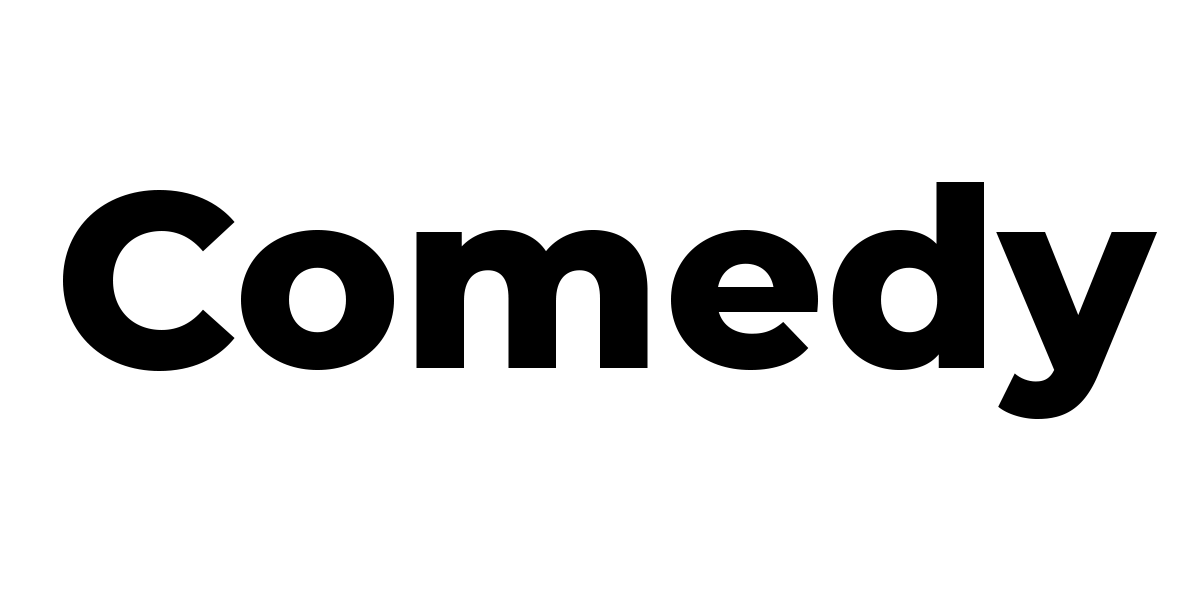
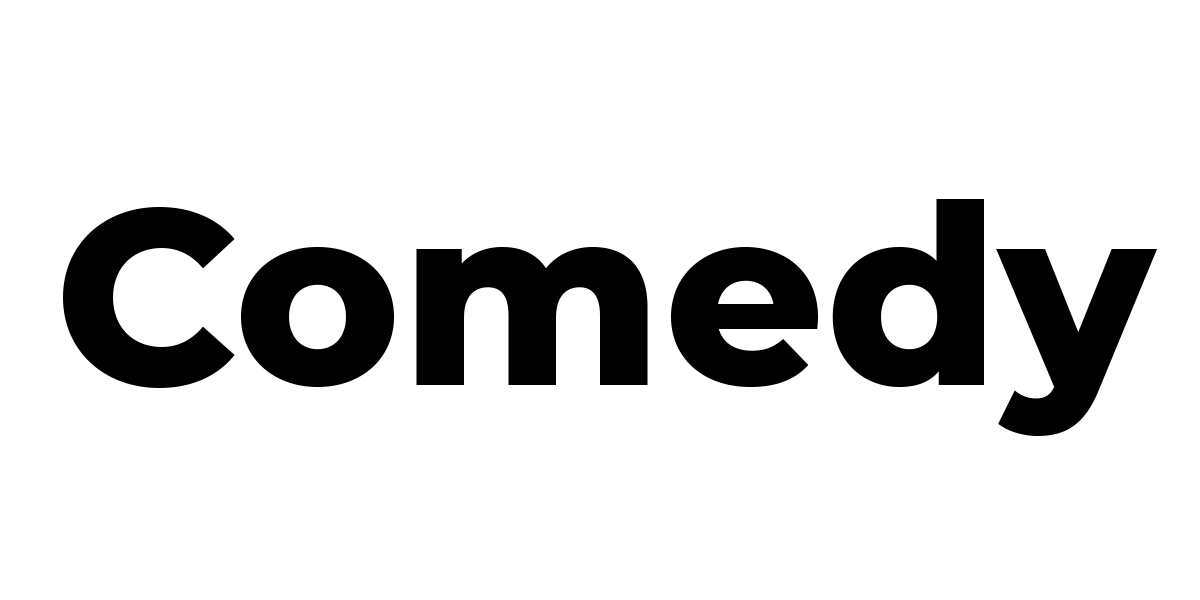
added the genre in the navigationGenre

diff --git a/client/src/components/NavigationGenre.jsx b/client/src/components/NavigationGenre.jsx
@@ -1,25 +1,54 @@
 import React, { useState, useEffect } from 'react';
-import trendingImage from './genre/trending.png';
+
 import actionImage from './genre/action.png';
+import animationImage from './genre/animation.png';
+import comedyImage from './genre/comedy.png';
+import dramaImage from './genre/drama.png';
+import familyImage from './genre/family.png';
+import horrorImage from './genre/horror.png';
+import romanceImage from './genre/romance.png';
+import trendingImage from './genre/trending.png';
 
 function NavigationGenre() {
+  const [actionMovies, setActionMovies] = useState([]);
+  const [animationMovies, setAnimationMovies] = useState([]);
+  const [comedyMovies, setComedyMovies] = useState([]);
+  const [dramaMovies, setDramaMovies] = useState([]);
+  const [familyMovies, setFamilyMovies] = useState([]);
+  const [horrorMovies, setHorrorMovies] = useState([]);
+  const [romanceMovies, setRomanceMovies] = useState([]);
   const [trendingMovies, setTrendingMovies] = useState([]);
+
   const [loading, setLoading] = useState(false);
-  const [error, setError] = useState(null); // Add state for error
+  const [error, setError] = useState(null);
 
   useEffect(() => {
-    const getTrendingMovies = async () => {
-      const moviesFromServer = await fetchData();
-      setTrendingMovies(moviesFromServer);
+    const getMovies = async () => {
+      const actionFromServer = await fetchData('/api/movies/action'); // Fetch action movies
+      setActionMovies(actionFromServer);
+      const animationFromServer = await fetchData('/api/movies/animation'); // Fetch animation movies
+      setAnimationMovies(animationFromServer);
+      const comedyFromServer = await fetchData('/api/movies/comedy'); // Fetch comedy movies
+      setComedyMovies(comedyFromServer);
+      const dramaFromServer = await fetchData('/api/movies/drama'); // Fetch drama movies
+      setDramaMovies(dramaFromServer);
+      const familyFromServer = await fetchData('/api/movies/family'); // Fetch family movies
+      setFamilyMovies(familyFromServer);
+      const horrorFromServer = await fetchData('/api/movies/horror'); // Fetch horror movies
+      setHorrorMovies(horrorFromServer);
+      const romanceFromServer = await fetchData('/api/movies/romance'); // Fetch romance movies
+      setRomanceMovies(romanceFromServer);
+      const trendingFromServer = await fetchData('/api/movies/trending'); // Fetch trending movies
+      setTrendingMovies(trendingFromServer);
     };
 
-    getTrendingMovies();
+    getMovies();
   }, []);
 
-  async function fetchData() {
+  async function fetchData(endpoint) {
     try {
       setLoading(true);
-      const response = await fetch('/api/movies/trending');
+      const response = await fetch(endpoint);
       if (!response.ok) {
         throw new Error('Network response was not ok');
       }
@@ -27,7 +56,7 @@ function NavigationGenre() {
       return data;
     } catch (error) {
       console.log(`Error Fetching Data: ${error.message}`);
-      setError(error.message); // Set error state
+      setError(error.message);
     } finally {
       setLoading(false);
     }
@@ -38,6 +67,117 @@ function NavigationGenre() {
   return (
     <div className="video-card-container">
       {error && <div>Error: {error}</div>}
+
+      {/*Action*/}
+      <button className="image-button">
+        <img src={actionImage} alt="Action" />
+        {!loading && actionMovies.length > 0 && (
+          <div
+            className="hover-poster poster"
+            style={{
+              backgroundImage: `url(${IMG_PATH + actionMovies[0].poster_path})`,
+              backgroundSize: 'cover',
+              backgroundPosition: 'center',
+            }}
+          />
+        )}
+      </button>
+
+      {/*Animation*/}
+      <button className="image-button">
+        <img src={animationImage} alt="Animation" />
+        {!loading && animationMovies.length > 0 && (
+          <div
+            className="hover-poster poster"
+            style={{
+              backgroundImage: `url(${
+                IMG_PATH + animationMovies[0].poster_path
+              })`,
+              backgroundSize: 'cover',
+              backgroundPosition: 'center',
+            }}
+          />
+        )}
+      </button>
+
+      {/*Comedy*/}
+      <button className="image-button">
+        <img src={comedyImage} alt="Comedy" />
+        {!loading && comedyMovies.length > 0 && (
+          <div
+            className="hover-poster poster"
+            style={{
+              backgroundImage: `url(${IMG_PATH + comedyMovies[0].poster_path})`,
+              backgroundSize: 'cover',
+              backgroundPosition: 'center',
+            }}
+          />
+        )}
+      </button>
+
+      {/*Drama*/}
+      <button className="image-button">
+        <img src={dramaImage} alt="Drama" />
+        {!loading && dramaMovies.length > 0 && (
+          <div
+            className="hover-poster poster"
+            style={{
+              backgroundImage: `url(${IMG_PATH + dramaMovies[0].poster_path})`,
+              backgroundSize: 'cover',
+              backgroundPosition: 'center',
+            }}
+          />
+        )}
+      </button>
+
+      {/*Family*/}
+      <button className="image-button">
+        <img src={familyImage} alt="Family" />
+        {!loading && familyMovies.length > 0 && (
+          <div
+            className="hover-poster poster"
+            style={{
+              backgroundImage: `url(${IMG_PATH + familyMovies[0].poster_path})`,
+              backgroundSize: 'cover',
+              backgroundPosition: 'center',
+            }}
+          />
+        )}
+      </button>
+
+      {/*Horror*/}
+      <button className="image-button">
+        <img src={horrorImage} alt="Horror" />
+        {horrorMovies && !loading && horrorMovies.length > 0 && (
+          <div
+            className="hover-poster poster"
+            style={{
+              backgroundImage: `url(${IMG_PATH + horrorMovies[0].poster_path})`,
+              backgroundSize: 'cover',
+              backgroundPosition: 'center',
+            }}
+          />
+        )}
+      </button>
+
+      {/*Romance*/}
+      <button className="image-button">
+        <img src={romanceImage} alt="Romance" />
+        {romanceMovies && !loading && romanceMovies.length > 0 && (
+          <div
+            className="hover-poster poster"
+            style={{
+              backgroundImage: `url(${
+                IMG_PATH + romanceMovies[0].poster_path
+              })`,
+              backgroundSize: 'cover',
+              backgroundPosition: 'center',
+            }}
+          />
+        )}
+      </button>
+
+      {/*Trending*/}
       <button className="image-button">
         <img src={trendingImage} alt="Trending" />
         {!loading && trendingMovies.length > 0 && (
@@ -50,17 +190,8 @@ function NavigationGenre() {
               backgroundSize: 'cover',
               backgroundPosition: 'center',
             }}
-          >
-            {/* <img
-              className="movie-poster"
-              src={`${IMG_PATH + trendingMovies[0].poster_path}`}
-              alt={`${trendingMovies[0].title} Poster`}
-            /> */}
-          </div>
+          />
         )}
-      </button>
-      <button className="image-button">
-        <img src={actionImage} alt="Action" />
       </button>
     </div>
   );

diff --git a/server/routes/movieRouter.js b/server/routes/movieRouter.js
@@ -145,61 +145,21 @@ router.get('/romance', async (req, res, next) => {
 });
 //End of movies Romance
 
-// // Define the searchMovies function in the global scope
-// export function searchMovies() {
-//   const searchInput = document.getElementById("search-input");
-//   const moviesContainer = document.getElementById("results-container");
-//   const searchQuery = searchInput.value;
-//   const APIKEY = process.env.OPEN_MOVIE_API_KEY;
-//   const apiUrl = `https://api.themoviedb.org/3/search/movie?api_key=${APIKEY}&query=${searchQuery}`;
+//Animation Movies Section
+const ANIMATION_API_URL = `https://api.themoviedb.org/3/discover/movie?api_key=${APIKEY}&with_genres=16`;
 
-//   console.log(searchInput.value); //this was to check if the search bar was working, how many letters were typed in
-
-//   fetch(apiUrl)
-//     .then((response) => response.json())
-//     .then((data) => {
-//       const movies = data.results;
-
-//       if (movies.length > 0) {
-//         displayMovies(movies); // Call the displayMovies function to show the movies
-//       } else {
-//         moviesContainer.style.display = "none"; // Hide the movies container if nothing was found
-//       }
-//     })
-//     .catch((error) => console.error(error));
-// }
-
-// function displayMovies(movies) {
-//   const moviesContainer = document.getElementById("results-container");
-//   const moviesList = moviesContainer.querySelector(".movies-list");
-//   moviesList.innerHTML = ""; // Clear the container before adding new movies
-
-//   moviesContainer.style.display = "flex";
-
-//   movies.forEach((movie) => {
-//     const movieElement = document.createElement("div");
-//     movieElement.classList.add("movie");
-
-//     const movieTitle = document.createElement("h2");
-//     movieTitle.textContent = movie.title;
-
-//     const movieOverview = document.createElement("p");
-//     movieOverview.textContent = movie.overview;
-
-//     const moviePoster = document.createElement("img");
-//     moviePoster.src = `https://image.tmdb.org/t/p/w1280${movie.poster_path}`;
-//     moviePoster.alt = movie.title;
-
-//     // movieElement.appendChild(movieOverview);
-//     movieElement.appendChild(moviePoster);
-//     movieElement.appendChild(movieTitle);
-
-//     moviesList.appendChild(movieElement);
-//   });
-
-//   moviesContainer.scrollIntoView();
-// }
-
-// /*END OF SEARCH MOVIES SECTION*/
+router.get('/animation', async (req, res, next) => {
+  try {
+    const response = await fetch(ANIMATION_API_URL);
+    const data = await response.json();
+    res.json(data.results);
+  } catch (error) {
+    console.error('Error fetching animation movies:', error);
+    res
+      .status(500)
+      .json({ error: 'An error occurred while fetching animation movies' });
+  }
+});
+//End of movies Animation
 
 module.exports = router;

diff --git a/client/src/components/Footer.jsx b/client/src/components/Footer.jsx
@@ -39,9 +39,7 @@ const Footer = () => {
           style={{ backgroundColor: 'rgba(0, 0, 0, 0.2)' }}
         >
           © 2023 Copyright:
-          <p className="text-white">
-            Austin, Jocelyn & Sylvia
-          </p>
+          <p className="text-white">Austin, Jocelyn & Sylvia</p>
         </div>
         {/* <!-- Copyright --> */}
       </footer>
